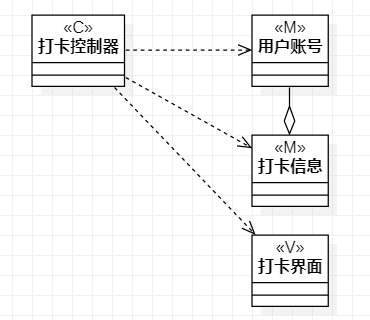
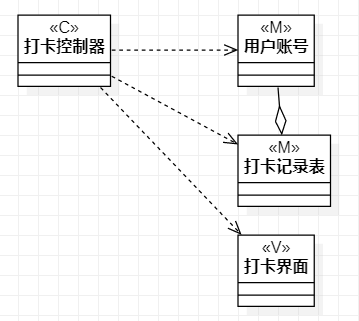
修改实验7和以前与打卡有关的内容

diff --git a/students/1714080902112/lab2.md b/students/1714080902112/lab2.md
@@ -28,7 +28,7 @@
 后置条件  |   | *可选*  
 基本流程  | 1. 用户点击打卡按钮  |  
 ~| 2. 系统检查到今日未打卡  |  
-~| 3. 添加打卡记录，提示打卡成功  |  
+~| 3. 打卡记录表进行打卡标记，提示打卡成功  |  
 扩展流程  | 2.1 系统出错或网络断开，系统提示打卡失败  | *用例执行失败*  
 ~| 2.2 今日已打卡，提示请勿重复打卡  | *用例执行失败*  
 
